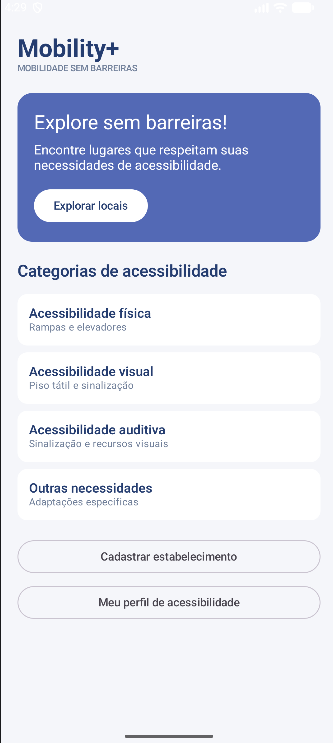
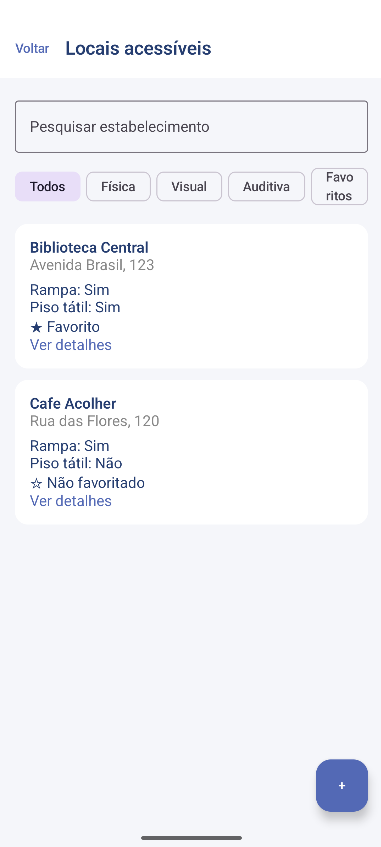
atualizacao readme.md

diff --git a/README.md b/README.md
@@ -192,7 +192,7 @@ Antes de excluir, o aplicativo solicita confirmação do usuário por meio de um
 
 ![Confirmação de exclusão](docs/screenshots/excluir-estabelecimento.png)
 
-[**Abrir imagem da confirmação de exclusão**](docs/screenshots/excluir-estabelecimento.png)
+[**Abrir imagem da confirmação de exclusão](docs/screenshots/excluir-estabelecimento.png)
 
 ### 9. Mensagem de exclusão
 
@@ -259,11 +259,11 @@ Foram implementadas as ações de **editar**, **excluir** (com confirmação) e 
 
 ### 3. Persistência após reabrir o aplicativo
 
-O aplicativo foi fechado completamente (removido dos aplicativos recentes) e aberto novamente. Os registros continuam na lista, pois estão armazenados localmente no Room.
+O aplicativo foi fechado completamente (removido dos aplicativos recentes) e aberto novamente. Os registros cadastrados e as alterações realizadas continuam salvos, demonstrando a persistência dos dados por meio do Room Database.
 
-<!-- TODO: tirar o print da lista após reabrir o app, salvar como docs/screenshots/evidencia-persistencia-apos-reabrir.png e remover os marcadores de comentário abaixo
-![Dados mantidos após reabrir o aplicativo](docs/screenshots/evidencia-persistencia-apos-reabrir.png)
--->
+![Comprovação dos registros e alterações após reabrir o aplicativo](docs/screenshots/comprovacao-registros-alterados.png)
+
+[**Abrir imagem da comprovação dos registros e alterações**](docs/screenshots/comprovacao-registros-alterados.png)
 
 ## Como executar o projeto
 
